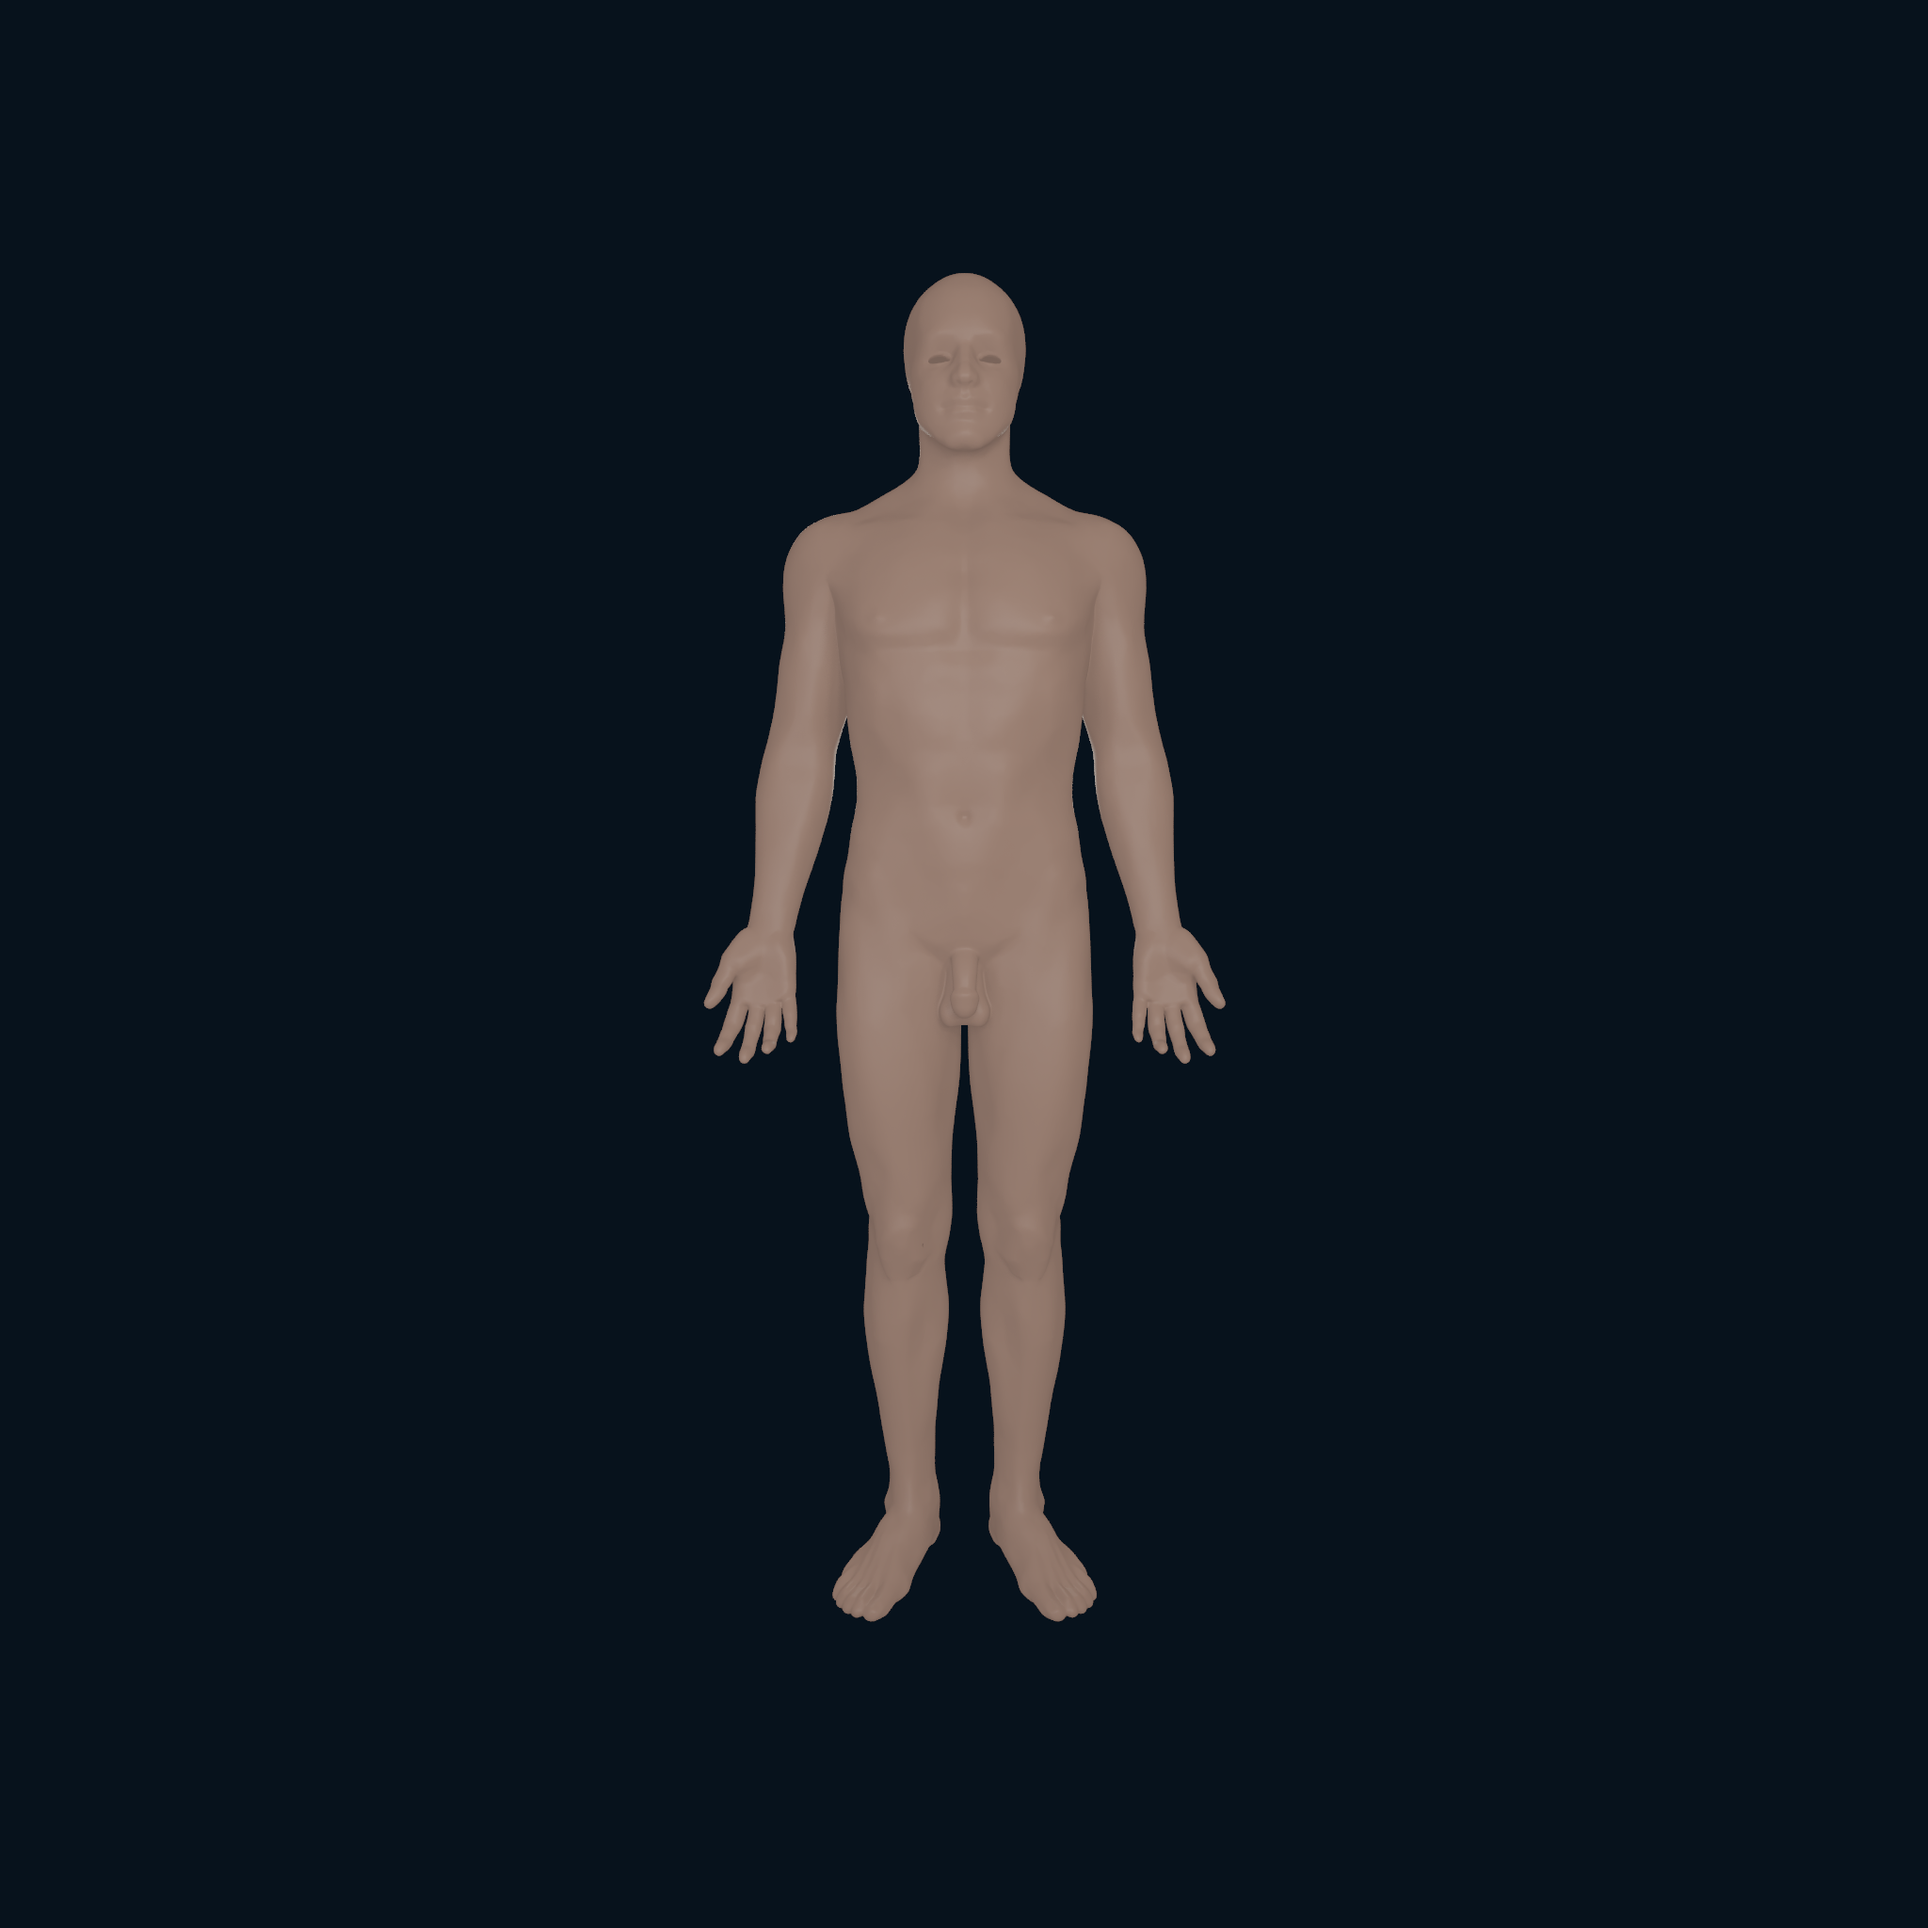
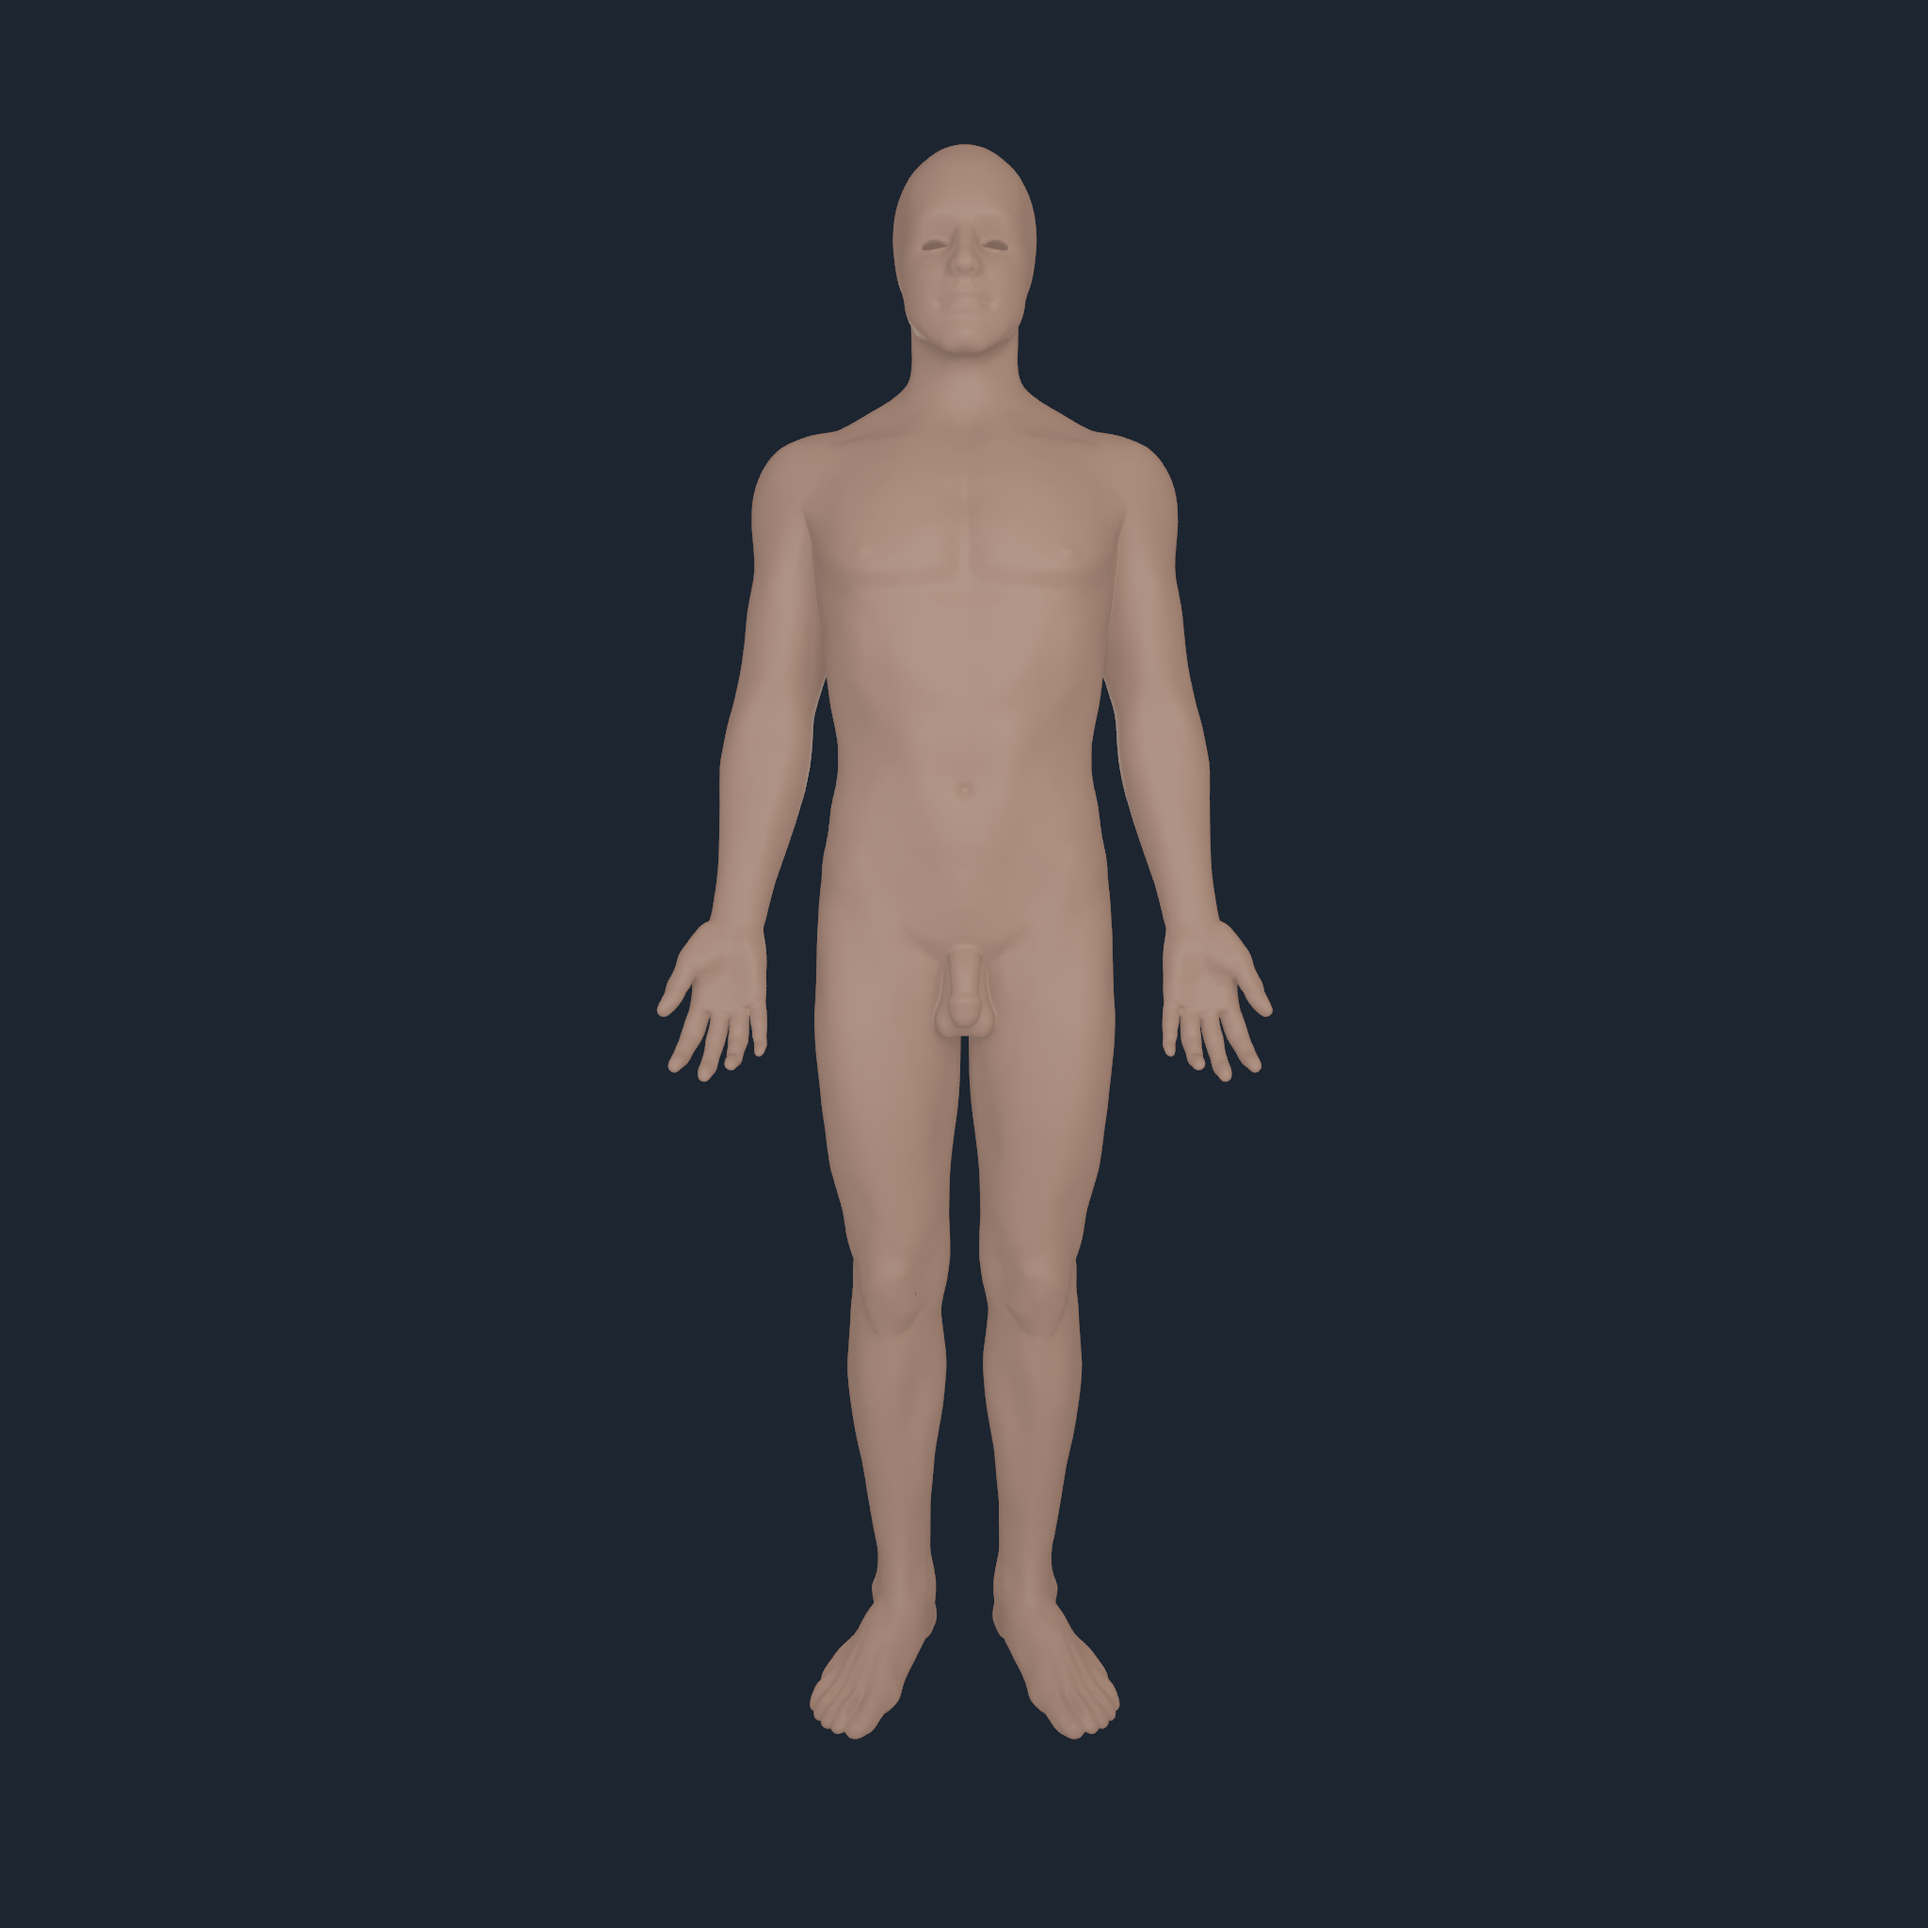
Improve Human tendon continuity visuals

Changed region(s): [[0.3438, 0.0625, 0.6562, 0.9062]]

diff --git a/Docs/VISUAL_PROGRESS.md b/Docs/VISUAL_PROGRESS.md
@@ -18,7 +18,7 @@ reconstructs the registered rest pose with a maximum error of
 
 The Apple M4 2K run executed 32 × 100 µs updates, 64 Metal force
 transactions, 13,312 active-muscle records, and 2,866 wrapped route contacts.
-Its four frames have 351,252 / 306,694 / 218,852 / 369,374 nonzero skin pixels
+Its four frames have 485,845 / 426,364 / 308,186 / 516,832 nonzero skin pixels
 (front / oblique / side / rear). The dynamic source-foot support probe retained
 two contacts at the final step (six at peak); as with the exposed anatomy,
 full-tree contact was correctly not admitted to the installed Metal bucket and
@@ -213,6 +213,28 @@ pins the exact inputs, options, output hashes, and limitations. This is visual
 continuity of source geometry through a bounded update. It does not establish
 a tendon continuum, tendon-to-bone force transfer, deformable tissue, stable
 standing or gait, general collision, skin, or clinical registration.
+
+## Muscle-driven tendon junction continuity — 2026-08-27
+
+<p align="center">
+  <img src="media/myosim-native-supported-tendon-junction-2048/myosim-fullbody-articulated-bodyparts-bones-source-soft-tissues-muscle-driven-source-support-contact-focus-body-136-front.png" width="24%" alt="Driven tendon junction, front" />
+  <img src="media/myosim-native-supported-tendon-junction-2048/myosim-fullbody-articulated-bodyparts-bones-source-soft-tissues-muscle-driven-source-support-contact-focus-body-136-oblique.png" width="24%" alt="Driven tendon junction, oblique" />
+  <img src="media/myosim-native-supported-tendon-junction-2048/myosim-fullbody-articulated-bodyparts-bones-source-soft-tissues-muscle-driven-source-support-contact-focus-body-136-side.png" width="24%" alt="Driven tendon junction, side" />
+  <img src="media/myosim-native-supported-tendon-junction-2048/myosim-fullbody-articulated-bodyparts-bones-source-soft-tissues-muscle-driven-source-support-contact-focus-body-136-rear.png" width="24%" alt="Driven tendon junction, rear" />
+</p>
+
+This four-angle Apple-M4 2048 px check uses the 150-surface exact
+BodyParts3D `NHTISS2` import in the same 32 × 100 µs all-416-muscle,
+ground-supported pose as the broad gallery. A visual-only collar is emitted
+only at an open source tendon boundary and only to the nearest visible muscle
+sharing an authored endpoint or to the named secondary bone surface, within
+30 mm. It closes the source-mesh raster gap through the final dynamic pose;
+it does not alter the MyoSim route, activation, force, or Core dynamics.
+
+The 2K frames and input/output identities are retained in the [capture record](media/myosim-native-supported-tendon-junction-2048/capture.transcript.txt).
+This is a rendering continuity improvement, not a tendon weld, constitutive
+model, force-transfer result, collision result, gait result, or clinical
+attachment validation.
 
 ## Presentation correction — 2026-08-27
 

diff --git a/README.md b/README.md
@@ -58,6 +58,24 @@ and authored foot-witness contact step. Metal still does not admit the
 Core FP64 before Metal renders the pose. It is an articulated anatomy
 presentation—not an exterior shell, a tendon continuum, gait, or clinical anatomy evidence.
 
+### Muscle-driven tendon junction review
+
+<p align="center">
+  <img src="Docs/media/myosim-native-supported-tendon-junction-2048/myosim-fullbody-articulated-bodyparts-bones-source-soft-tissues-muscle-driven-source-support-contact-focus-body-136-front.png" width="24%" alt="Muscle-driven tendon junction, front" />
+  <img src="Docs/media/myosim-native-supported-tendon-junction-2048/myosim-fullbody-articulated-bodyparts-bones-source-soft-tissues-muscle-driven-source-support-contact-focus-body-136-oblique.png" width="24%" alt="Muscle-driven tendon junction, oblique" />
+  <img src="Docs/media/myosim-native-supported-tendon-junction-2048/myosim-fullbody-articulated-bodyparts-bones-source-soft-tissues-muscle-driven-source-support-contact-focus-body-136-side.png" width="24%" alt="Muscle-driven tendon junction, side" />
+  <img src="Docs/media/myosim-native-supported-tendon-junction-2048/myosim-fullbody-articulated-bodyparts-bones-source-soft-tissues-muscle-driven-source-support-contact-focus-body-136-rear.png" width="24%" alt="Muscle-driven tendon junction, rear" />
+</p>
+
+This 2K native review keeps the exposed calf anatomy in the same 32-step,
+all-416-muscle-driven pose as the full body. BodyParts3D delivers the exact
+muscle, tendon, and bone meshes; at an open tendon boundary, the renderer adds
+a short source-proximity collar to the nearest visible endpoint-compatible
+muscle or named secondary bone surface. That closes a raster seam without
+changing the authored MyoSim spatial route or force. Its [capture record](Docs/media/myosim-native-supported-tendon-junction-2048/capture.transcript.txt)
+names inputs, execution, and frame hashes. This is visual continuity—not a
+tendon weld, force-transfer law, deformable tendon, or attachment certificate.
+
 ### Posterior-chain tendon-to-bone inspection
 
 <p align="center">

diff --git a/Docs/VISUAL_VALIDATION.md b/Docs/VISUAL_VALIDATION.md
@@ -10,13 +10,29 @@ bindings, then verifies the registered rest-pose reconstruction to
 `1.0111756560930368e-15 m`. The runtime command starts no Python process:
 the final 157-body pose and all four Apple-M4 renders are native C++/Metal.
 
-The reviewed frame coverage is 351,252 / 306,694 / 218,852 / 369,374 skin
+The reviewed frame coverage is 485,845 / 426,364 / 308,186 / 516,832 skin
 pixels from front through rear, with no bone, muscle, or tendon proxy leaking
 through the opaque source shell. This makes the whole Human materially more
 legible than the prior exposed-only gallery. It does not establish physical
 skin deformation, material calibration, collision/contact geometry, or a
 clinical soft-tissue registration. The exposed tendon inspection remains the
 authority for tendon-to-bone visual continuity.
+
+## Current driven tendon-junction check — 2026-08-27
+
+The four-angle 2048 px [driven tendon-junction capture](VISUAL_PROGRESS.md#muscle-driven-tendon-junction-continuity--2026-08-27)
+uses the exact 150-surface BodyParts3D muscle/tendon import after the same
+32-step all-416-muscle Metal force update and Core FP64 source-foot-contact
+fallback. At a source tendon mesh's open boundary, the native renderer may
+close a visible raster seam with a short source-proximity collar to the nearest
+visible endpoint-compatible muscle surface or its named secondary-bone
+surface. The rendered collar is reported separately from source tendon pixels
+and follows the final articulated pose.
+
+This corrects the exposed anatomy presentation. It does not change MyoSim
+spatial routes, attach a new force, weld a tendon to bone, define a material,
+or prove physical tendon continuity, contact, gait, or clinical registration.
+The exact inputs and image hashes are in its [capture record](media/myosim-native-supported-tendon-junction-2048/capture.transcript.txt).
 
 ## Presentation correction — 2026-08-27
 
